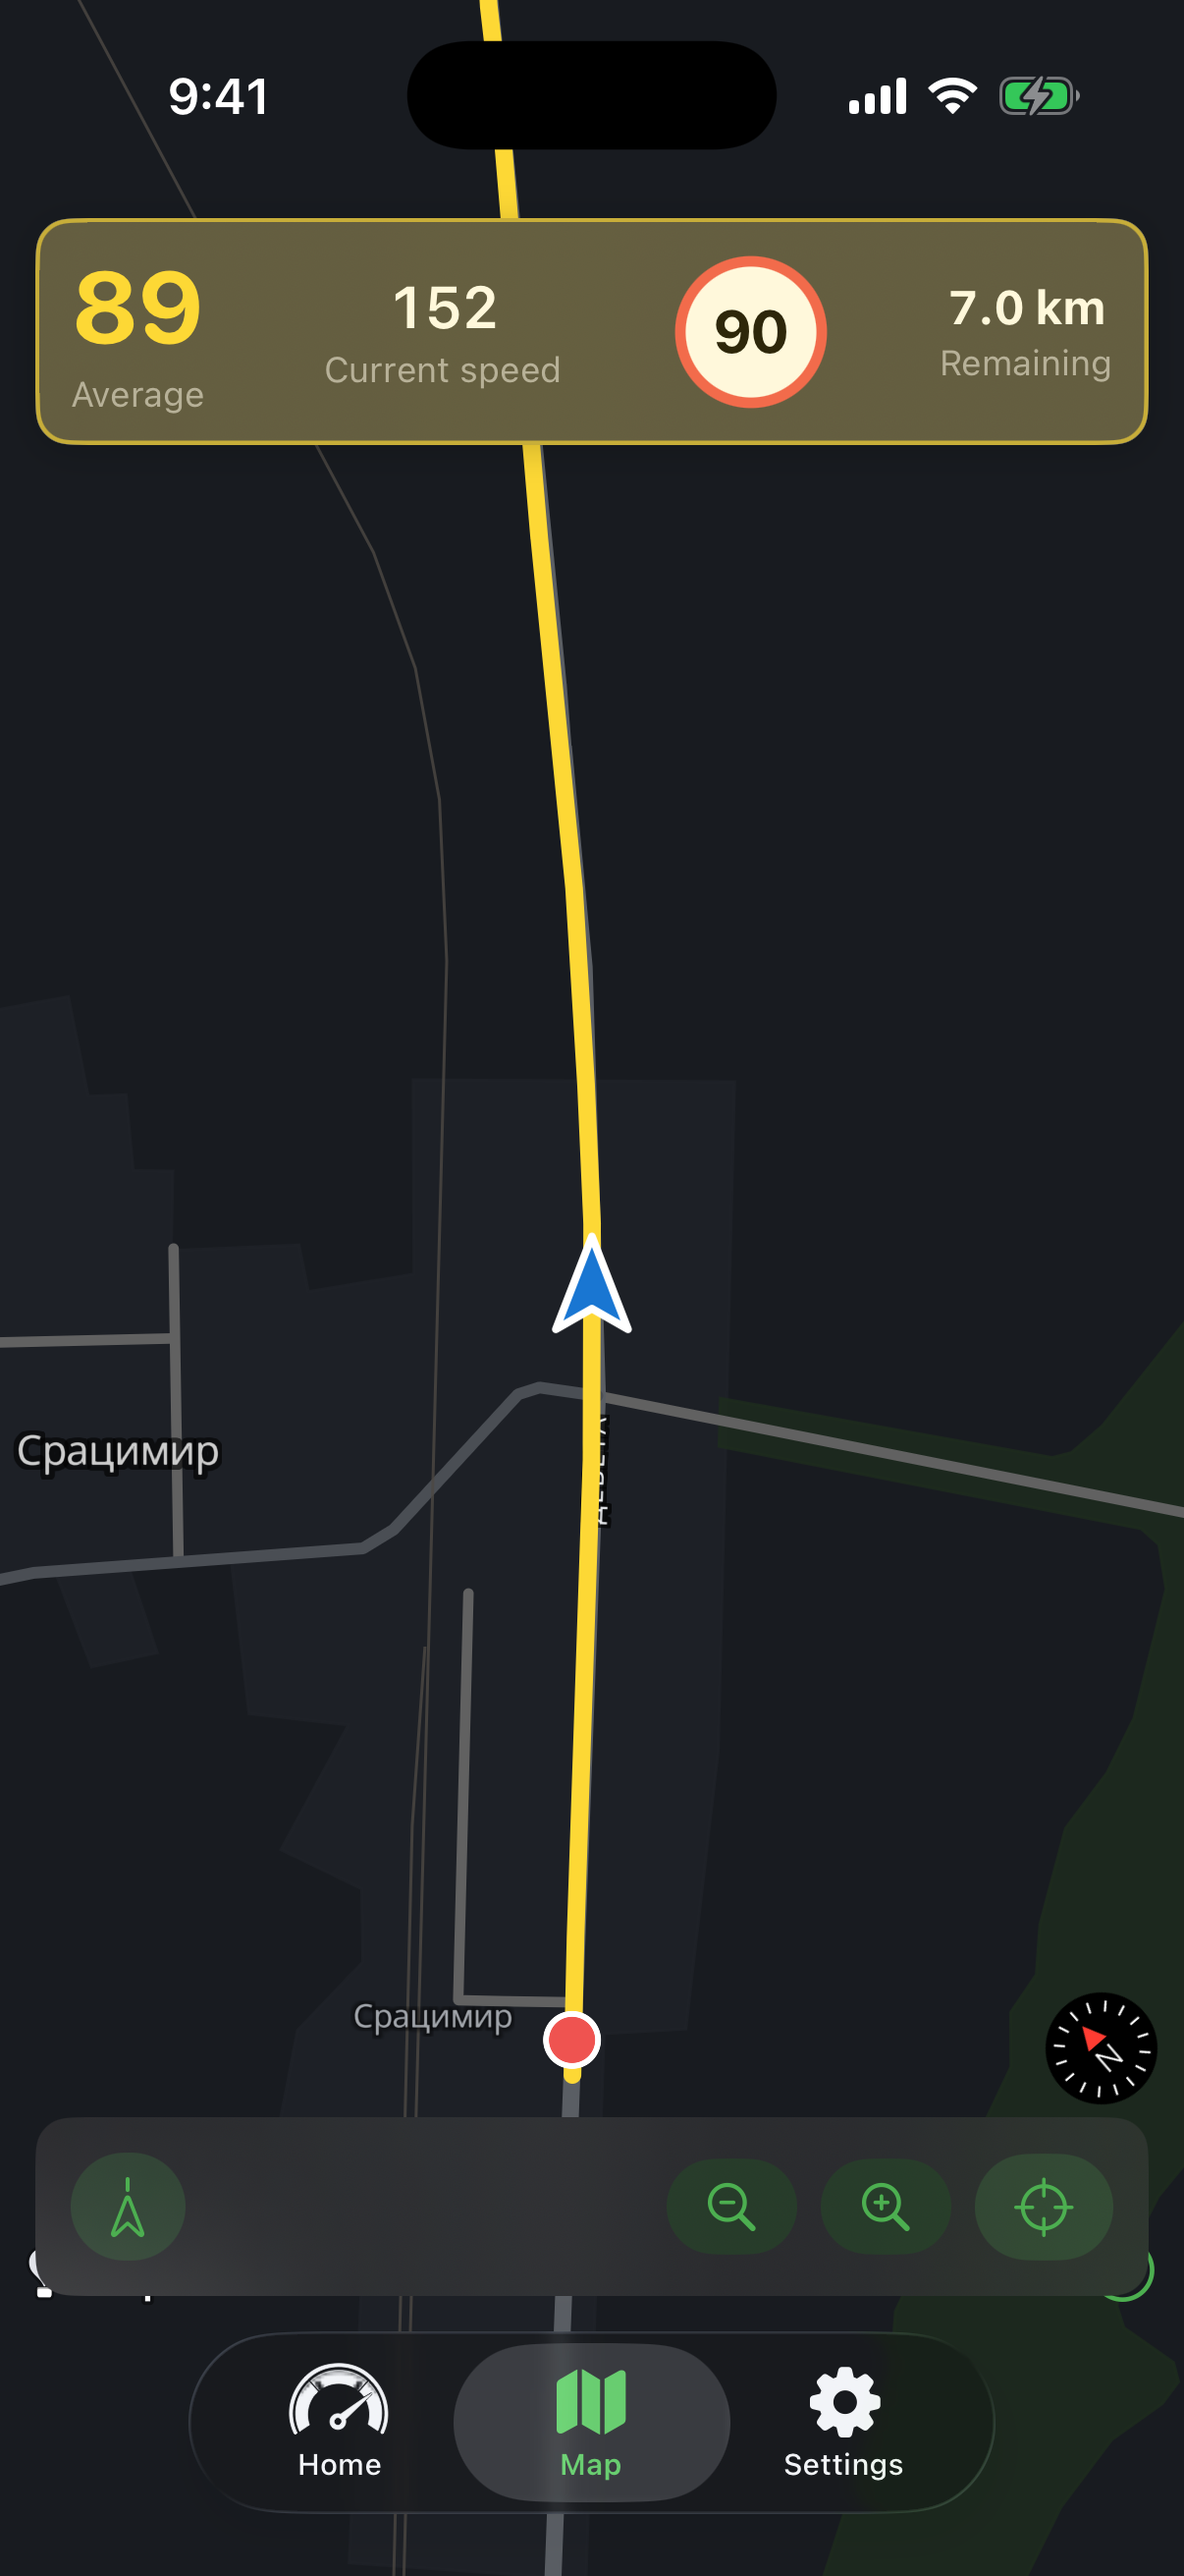
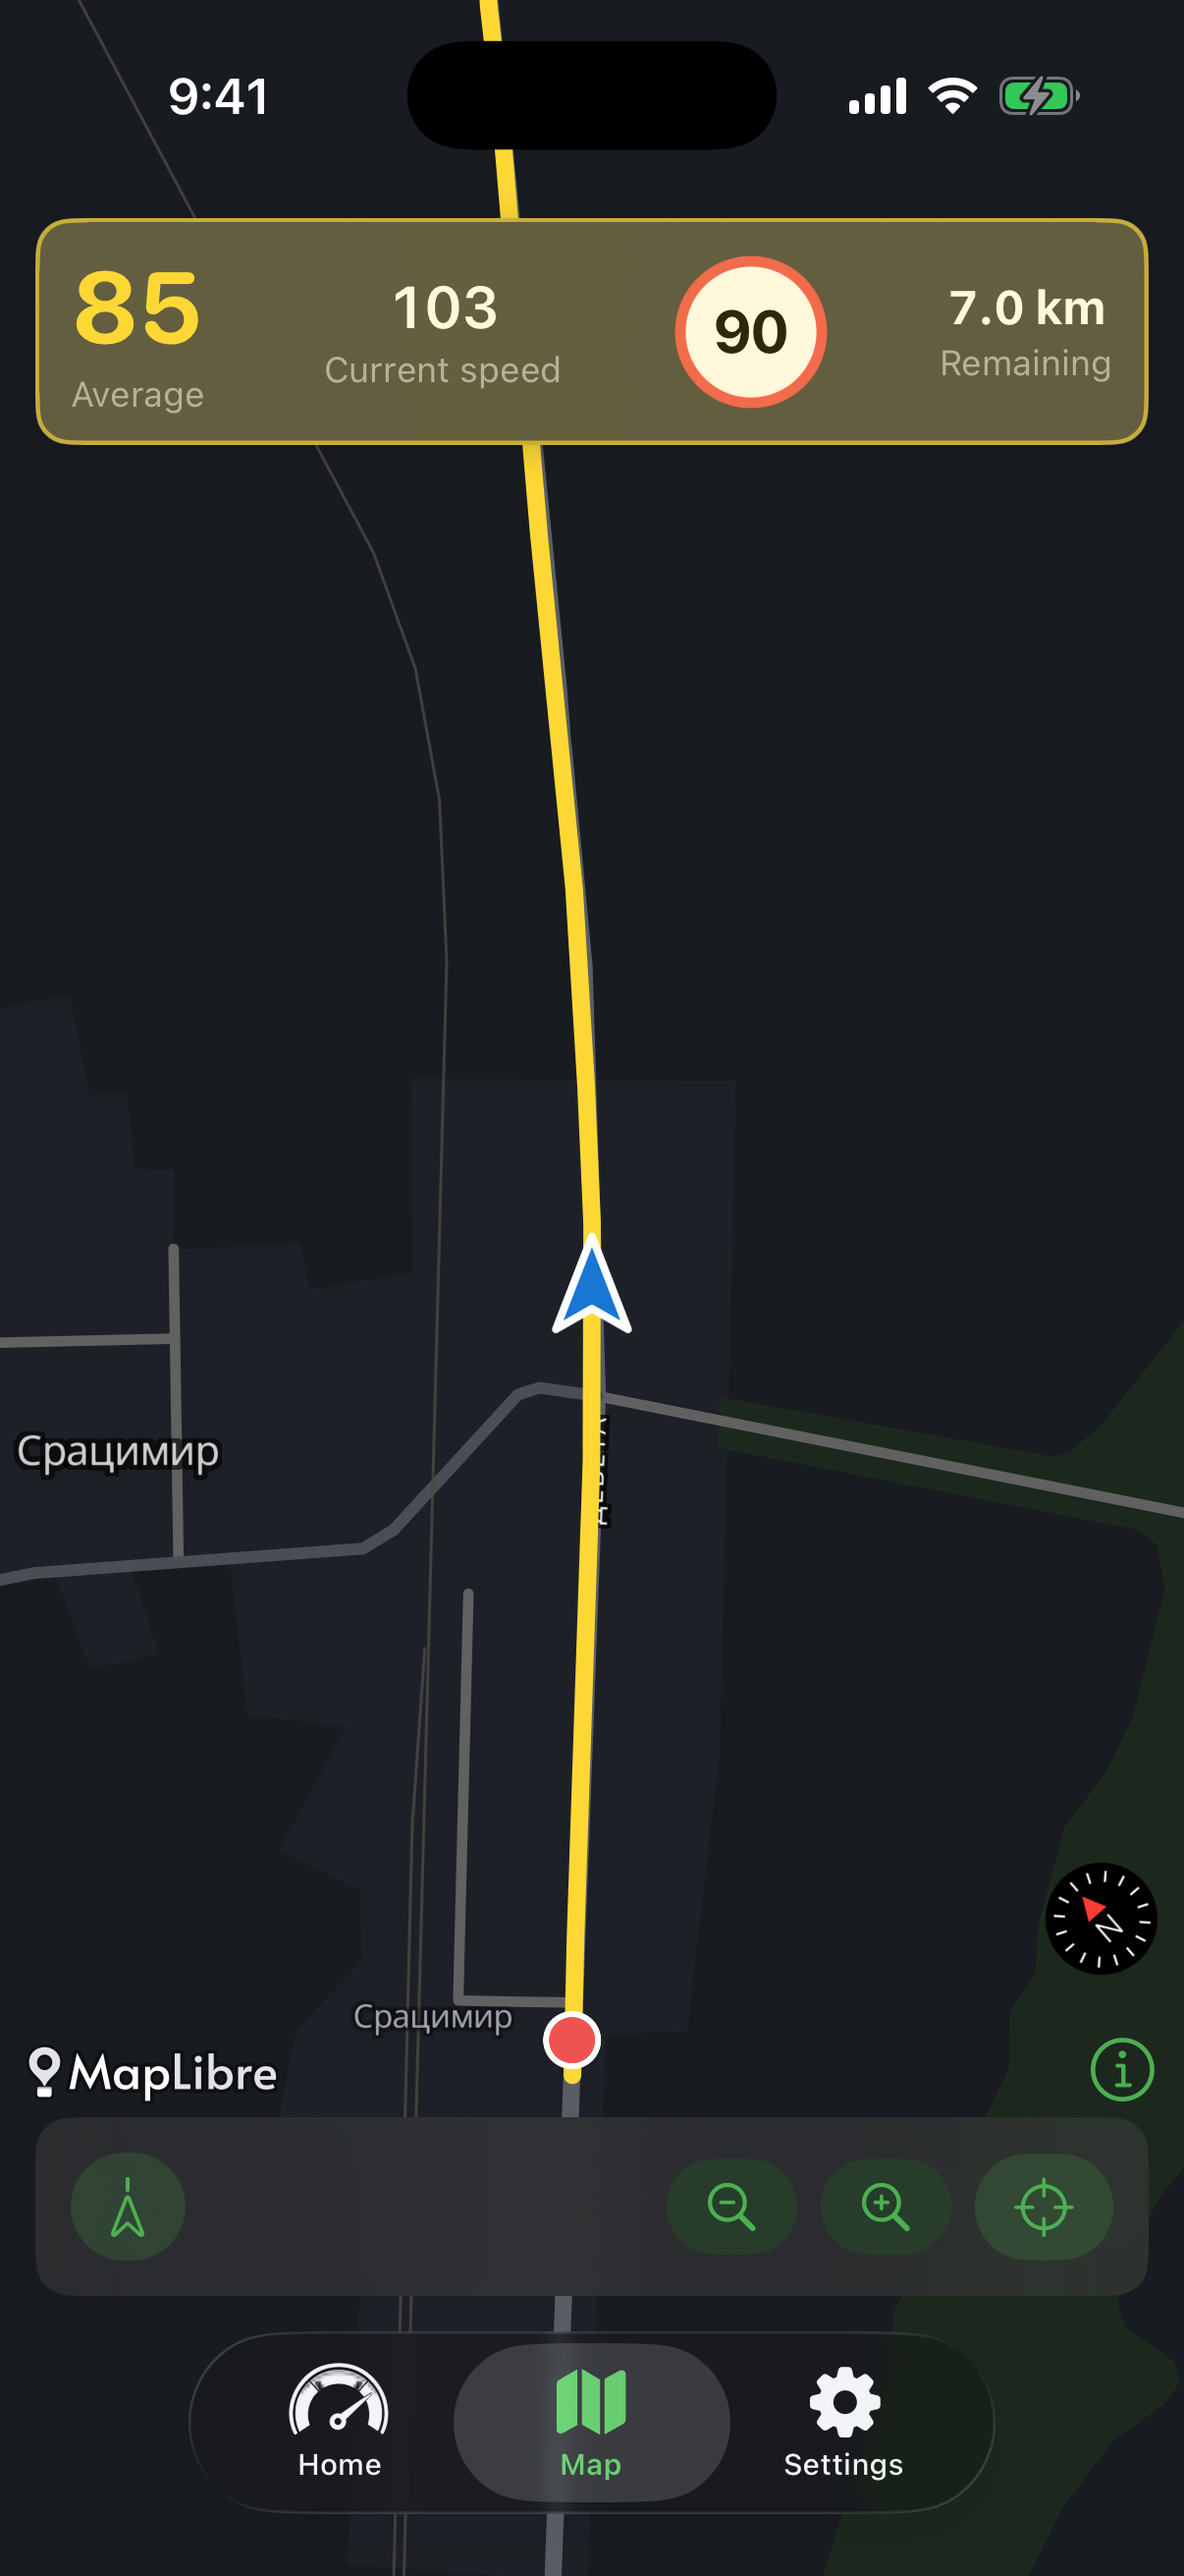
Updated MapLibre attribution on the map tab and related screenshots, screenshot copy script

diff --git a/android/app/src/main/kotlin/com/demosten/srednabg/app/ui/screens/ZoneMapScreen.kt b/android/app/src/main/kotlin/com/demosten/srednabg/app/ui/screens/ZoneMapScreen.kt
@@ -42,12 +42,14 @@ import androidx.compose.material3.CircularProgressIndicator
 import androidx.compose.material3.Icon
 import androidx.compose.material3.LinearProgressIndicator
 import androidx.compose.material3.LocalContentColor
+import androidx.compose.material3.LocalMinimumInteractiveComponentSize
 import androidx.compose.material3.MaterialTheme
 import androidx.compose.material3.SmallFloatingActionButton
 import androidx.compose.material3.Surface
 import androidx.compose.material3.Text
 import androidx.compose.material3.TextButton
 import androidx.compose.runtime.Composable
+import androidx.compose.runtime.CompositionLocalProvider
 import androidx.compose.runtime.DisposableEffect
 import androidx.compose.runtime.LaunchedEffect
 import androidx.compose.runtime.getValue
@@ -63,6 +65,7 @@ import androidx.compose.ui.platform.LocalContext
 import androidx.compose.ui.res.stringResource
 import androidx.compose.ui.text.font.FontWeight
 import androidx.compose.ui.text.style.TextAlign
+import androidx.compose.ui.unit.Dp
 import androidx.compose.ui.unit.dp
 import androidx.compose.ui.unit.sp
 import androidx.compose.ui.viewinterop.AndroidView
@@ -218,12 +221,23 @@ fun ZoneMapScreen(viewModel: ZoneMapViewModel = hiltViewModel()) {
                     .bearing(initialCameraSnapshot?.bearing ?: 0.0)
                     .tilt(initialCameraSnapshot?.tilt ?: 0.0)
                     .build()
-                // Anchor the compass at bottom-right above the zoom FAB column
-                // so it doesn't sit under the in-zone status chip when heading-up
-                // follow rotates the map.
+                // Stack MapLibre chrome above our bottom FAB columns:
+                // wordmark at bottom-left, (i) attribution at bottom-right
+                // on the same horizontal line, native compass lifted above
+                // the (i) so it doesn't sit under the in-zone status chip
+                // when heading-up follow rotates the map.
                 val density = context.resources.displayMetrics.density
+                map.uiSettings.setLogoMargins(
+                    (8 * density).toInt(), 0, 0, (120 * density).toInt(),
+                )
+                map.uiSettings.attributionGravity = Gravity.BOTTOM or Gravity.END
+                map.uiSettings.setAttributionMargins(
+                    0, 0, (8 * density).toInt(), (120 * density).toInt(),
+                )
                 map.uiSettings.compassGravity = Gravity.BOTTOM or Gravity.END
-                map.uiSettings.setCompassMargins(0, 0, (16 * density).toInt(), (124 * density).toInt())
+                map.uiSettings.setCompassMargins(
+                    0, 0, (8 * density).toInt(), (168 * density).toInt(),
+                )
                 map.addOnMoveListener(object : MapLibreMap.OnMoveListener {
                     override fun onMoveBegin(detector: org.maplibre.android.gestures.MoveGestureDetector) {}
                     override fun onMove(detector: org.maplibre.android.gestures.MoveGestureDetector) {
@@ -421,31 +435,38 @@ fun ZoneMapScreen(viewModel: ZoneMapViewModel = hiltViewModel()) {
             modifier = Modifier.fillMaxSize(),
         )
 
-        Column(
-            modifier = Modifier
-                .align(Alignment.BottomEnd)
-                .padding(16.dp),
-            verticalArrangement = Arrangement.spacedBy(8.dp),
-        ) {
-            SmallFloatingActionButton(
-                onClick = {
-                    mapView.getMapAsync { it.animateCamera(CameraUpdateFactory.zoomIn()) }
-                },
+        // SmallFloatingActionButton applies Material's 48dp min-interactive
+        // padding around its 40dp visual; the left-side custom FABs don't,
+        // so without this opt-out the +/- column is 16dp taller than the
+        // compass/recenter column and the visual gap between + and - is
+        // doubled. Disable enforcement here to match the left side.
+        CompositionLocalProvider(LocalMinimumInteractiveComponentSize provides Dp.Unspecified) {
+            Column(
+                modifier = Modifier
+                    .align(Alignment.BottomEnd)
+                    .padding(16.dp),
+                verticalArrangement = Arrangement.spacedBy(8.dp),
             ) {
-                Icon(
-                    imageVector = Icons.Filled.Add,
-                    contentDescription = stringResource(R.string.map_zoom_in),
-                )
-            }
-            SmallFloatingActionButton(
-                onClick = {
-                    mapView.getMapAsync { it.animateCamera(CameraUpdateFactory.zoomOut()) }
-                },
-            ) {
-                Icon(
-                    imageVector = Icons.Filled.Remove,
-                    contentDescription = stringResource(R.string.map_zoom_out),
-                )
+                SmallFloatingActionButton(
+                    onClick = {
+                        mapView.getMapAsync { it.animateCamera(CameraUpdateFactory.zoomIn()) }
+                    },
+                ) {
+                    Icon(
+                        imageVector = Icons.Filled.Add,
+                        contentDescription = stringResource(R.string.map_zoom_in),
+                    )
+                }
+                SmallFloatingActionButton(
+                    onClick = {
+                        mapView.getMapAsync { it.animateCamera(CameraUpdateFactory.zoomOut()) }
+                    },
+                ) {
+                    Icon(
+                        imageVector = Icons.Filled.Remove,
+                        contentDescription = stringResource(R.string.map_zoom_out),
+                    )
+                }
             }
         }
 

diff --git a/ios/Packages/SrednaBGUI/Sources/SrednaBGUI/Map/MapLibreView.swift b/ios/Packages/SrednaBGUI/Sources/SrednaBGUI/Map/MapLibreView.swift
@@ -51,13 +51,19 @@ struct MapLibreView: UIViewRepresentable {
         let mapView = MLNMapView(frame: .zero, styleURL: styleURL)
         mapView.delegate = context.coordinator
         mapView.compassView.isHidden = false
-        // Anchor the compass at bottom-right above the controls toolbar so it
-        // doesn't sit under the in-zone StatusChip when heading-up follow
-        // rotates the map (chip overlays the default top-right corner).
-        mapView.compassViewPosition = .bottomRight
-        mapView.compassViewMargins = CGPoint(x: 8, y: 76)
         mapView.logoView.isHidden = false
         mapView.attributionButton.isHidden = false
+        // Stack MapLibre chrome above the bottom controls pill: wordmark at
+        // bottom-left, (i) attribution at bottom-right on the same
+        // horizontal line, native compass lifted above the (i) so it
+        // doesn't sit under the in-zone StatusChip when heading-up rotates
+        // the map (chip overlays the default top-right corner).
+        mapView.logoViewPosition = .bottomLeft
+        mapView.logoViewMargins = CGPoint(x: 8, y: 76)
+        mapView.attributionButtonPosition = .bottomRight
+        mapView.attributionButtonMargins = CGPoint(x: 8, y: 76)
+        mapView.compassViewPosition = .bottomRight
+        mapView.compassViewMargins = CGPoint(x: 8, y: 120)
         mapView.showsUserLocation = false
         // MapLibre reads the enclosing UIViewController's (deprecated)
         // `automaticallyAdjustsScrollViewInsets` unless we opt out here —
